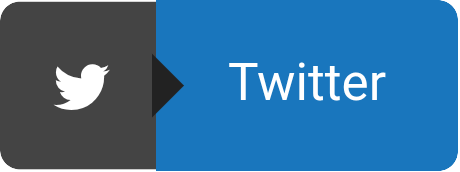
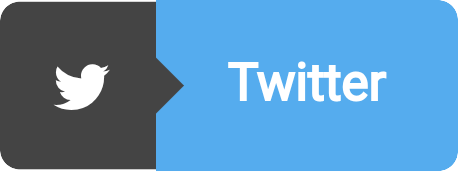
initial commit

diff --git a/index.html b/index.html
@@ -201,7 +201,7 @@ h1 {
 
   <div class="button-wrapper">
     <div class="button-preview" id="twitter-btn">
-      <a class="btn btn-icon btn-twitter" href="#"><i class="fa fa-twitter"></i><span>Twitter</span></a>
+      <a class="btn btn-icon btn-twitter" href="#"><i class="fa fa-twitter"></i><span><b>Twitter</b></span></a>
     </div>
     <button class="download-btn" onclick="downloadButton('twitter-btn', 'twitter-button.png')">
       ⬇ Download PNG
